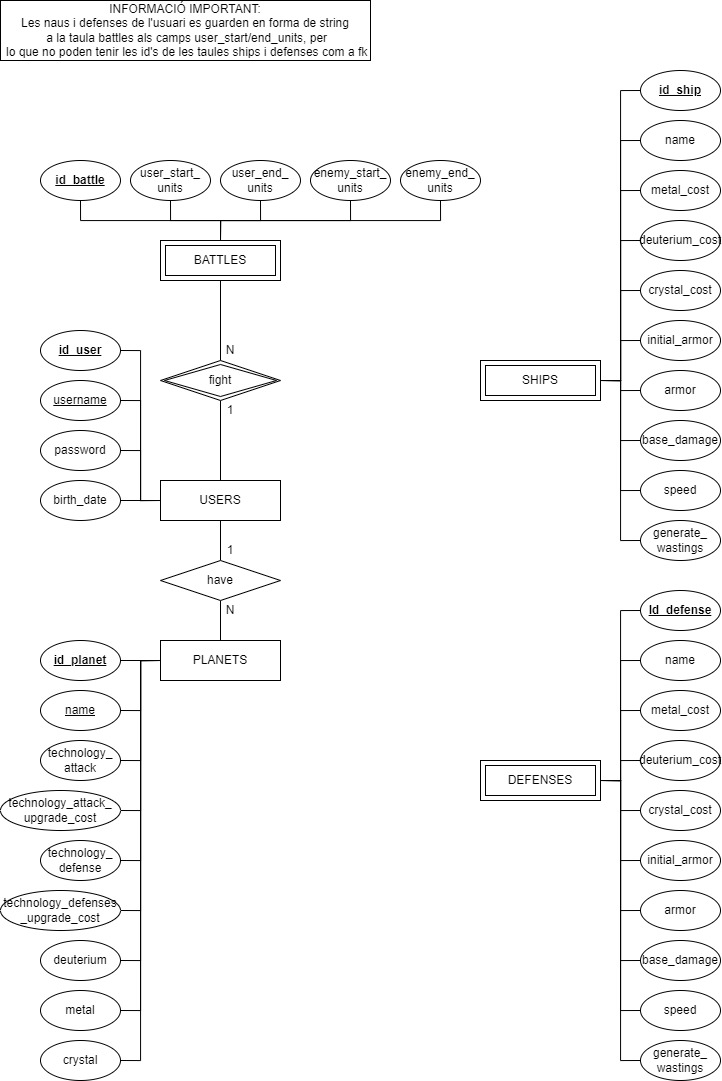
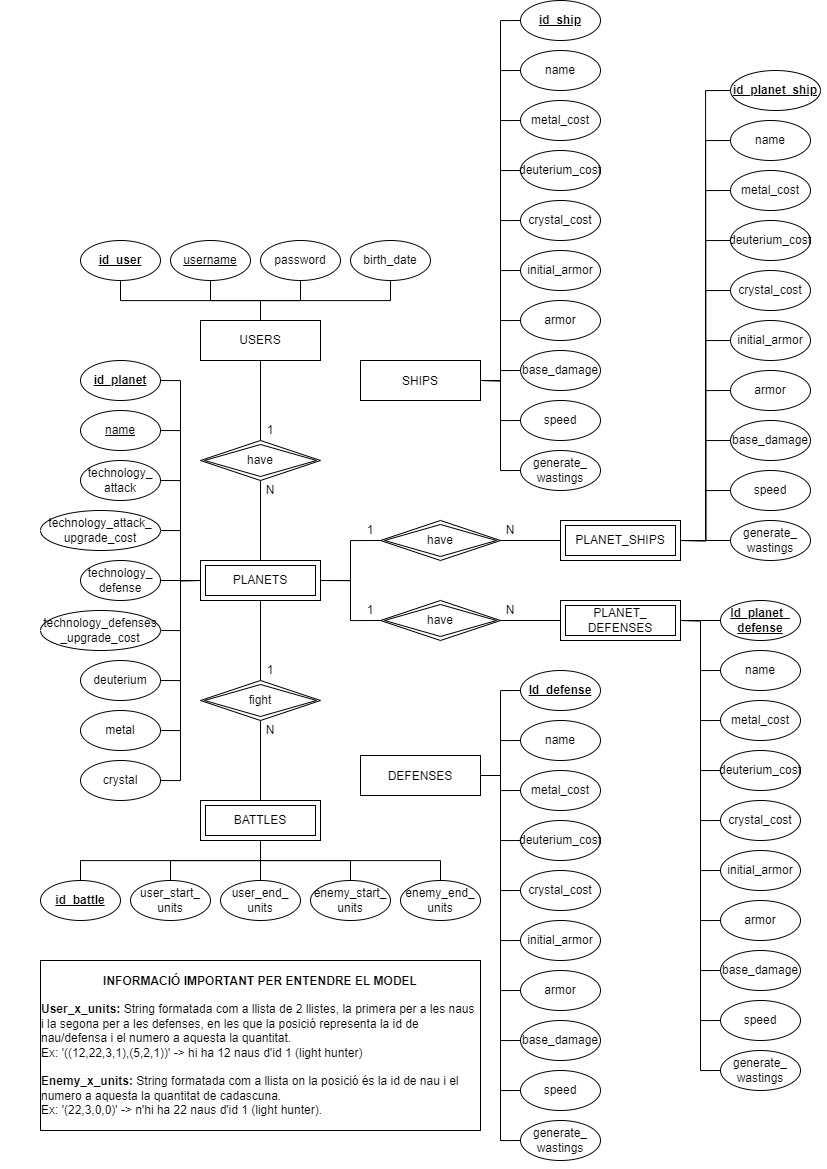
Diagrama chen nova versió
diagrama relacional i scripts pendents d'actualització

diff --git a/M3/src/gui/Planet_status.java b/M3/src/gui/Planet_status.java
@@ -1,0 +1,27 @@
+package gui;
+
+import java.awt.*;
+
+import javax.swing.*;
+
+public class Planet_status extends JPanel {
+	JPanel content, content_left, content_right, name_exit, resources, ships, defenses, tech_levels;
+	
+	public Planet_status (JFrame window){
+		this.setPreferredSize(new Dimension(window.getWidth()-10, window.getHeight()-10));
+		this.setLocation(window.getContentPane().getWidth()-50+this.getWidth()/2, window.getContentPane().getHeight()-50+this.getHeight()/2); //esto no va
+		this.setBackground(Color.green);
+		
+		JLabel top_margin = new JLabel();
+		top_margin.setBackground(Color.pink);
+		top_margin.setPreferredSize(new Dimension(this.getWidth(),50));
+		top_margin.setOpaque(true);
+		top_margin.setVisible(true);
+		this.add(top_margin);
+		
+		
+		
+		this.setVisible(true);
+	}
+
+}

diff --git a/M3/src/gui/Main_window.java b/M3/src/gui/Main_window.java
@@ -1,0 +1,24 @@
+package gui;
+
+import java.awt.*;
+import javax.swing.*;
+
+
+
+public class Main_window extends JFrame {
+Toolkit tk = Toolkit.getDefaultToolkit();
+	public Main_window() {
+		this.setLayout(new FlowLayout());
+		this.setSize(tk.getScreenSize());
+		this.setExtendedState(MAXIMIZED_BOTH);
+		this.getContentPane().setBackground(Color.black);
+		this.setDefaultCloseOperation(EXIT_ON_CLOSE);
+		this.setVisible(true);
+	}
+	
+	public static void main(String[] args) {
+		Main_window MainWindow = new Main_window();
+		MainWindow.add(new Planet_status(MainWindow));
+	} //main method
+} //main class
+
